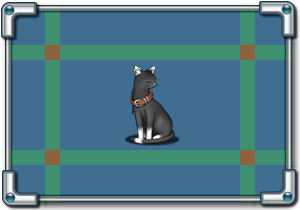
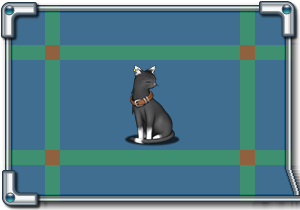
fix: balloon flip

Changed region(s): [[0.87, 0.8, 1.0, 1.0]]

diff --git a/Kikka/Scripts/Command/dialogwindow.py b/Kikka/Scripts/Command/dialogwindow.py
@@ -1,3 +1,4 @@
+# coding=utf-8
 import sys
 import logging
 
@@ -8,6 +9,7 @@ from PyQt5.QtWidgets import QWidget, QPushButton, QStackedLayout, QVBoxLayout, Q
 
 import kikka
 from kikka_balloon import Balloon
+
 
 class Dialog(QWidget):
     def __init__(self, parent: QWidget, balloon: Balloon):
@@ -22,6 +24,7 @@ class Dialog(QWidget):
         self.nid = parent.nid
         self._isChangeSizeMode = False
         self.balloon = balloon
+        self.isFlip = False
 
         self._bgSource = None
         self._bgImage = None
@@ -31,7 +34,6 @@ class Dialog(QWidget):
         self._bgClipW = None
         self._bgClipH = None
 
-        self.setBackgroundImage()
         style = '''
         QPushButton{
             border-style: solid;
@@ -157,16 +159,22 @@ class Dialog(QWidget):
                                               self.size().height()])
         pass
 
+        flip = False
         sw, sh = kikka.helper.getScreenResolution()
         if x + self.width() > sw or x < 0:
+            flip = True
             x = int(p_pos.x()*2 + p_size.width() - x - self.width())
-            if x + self.width() > sw: x = p_pos.x() - self.width()
-            if x < 0: x = p_pos.x() + p_size.width()
+            if x + self.width() > sw:
+                x = p_pos.x() - self.width()
+            if x < 0:
+                x = p_pos.x() + p_size.width()
+        if self.isFlip != flip:
+            self.isFlip = flip
+            if self.balloon is not None:
+                self._bgPixmap, self._bgMask = self.balloon.getBalloonImage(self.size(), self.isFlip)
+                self.repaint()
 
         super().move(x, y)
-        if self.balloon is not None:
-            self._bgPixmap, self._bgMask = self.balloon.getBalloonImage(self.size())
-        # self.getBackgroundImage()
         pass
 
     def show(self):
@@ -181,102 +189,12 @@ class Dialog(QWidget):
 
     def resizeEvent(self, a0: QtGui.QResizeEvent):
         if self.balloon is not None:
-            self._bgPixmap, self._bgMask = self.balloon.getBalloonImage(self.size())
-        # self.getBackgroundImage()
+            self._bgPixmap, self._bgMask = self.balloon.getBalloonImage(self.size(), self.isFlip)
 
     def paintEvent(self, event):
         painter = QPainter(self)
         painter.drawPixmap(self.rect(), self._bgPixmap)
         super().paintEvent(event)
-
-    def setBackgroundImage(self, image=None, clipW=None, clipH=None):
-        # self._backgroundSource = QImage(r"C:\\d2.png")
-        # self._backgroundClipW = [60, 3, 60]
-        # self._backgroundClipH = [60, 3, 60]
-
-        self._bgSource = QImage(r"C:\\d4.png")
-        self._bgClipW = [45, 15, 180, 15, 45]
-        self._bgClipH = [45, 15, 90, 15, 45]
-
-        srect = []
-        sw = self._bgClipW
-        sh = self._bgClipH
-        for y in range(len(self._bgClipH)):
-            sr = []
-            for x in range(len(self._bgClipW)):
-                pt = QPoint(0, 0)
-                if x > 0: pt.setX(sr[x-1].x() + sw[x-1])
-                if y > 0: pt.setY(srect[y-1][0].y() + sh[y-1])
-                sz = QSize(sw[x], sh[y])
-                sr.append(QRect(pt, sz))
-                pass
-            srect.append(sr)
-        pass  # exit for
-
-        self._bgRect = srect
-        self.setMinimumSize(self._bgSource.size())
-
-    def getBackgroundImage(self):
-        # logging.info("getBackgroundImage: (%d, %d)" % (sz.width(), sz.height()))
-
-        drect = []
-        if len(self._bgClipW) == 3:
-            dw = [self._bgClipW[0],
-                  self.size().width() - self._bgClipW[0] - self._bgClipW[2],
-                  self._bgClipW[2]]
-        elif len(self._bgClipW) == 5:
-            sw = self.size().width() - self._bgClipW[0] - self._bgClipW[2] - self._bgClipW[4]
-            dw = [self._bgClipW[0],
-                  sw//2,
-                  self._bgClipW[2],
-                  sw - sw//2,
-                  self._bgClipW[4]]
-        else:
-            sw = self.size().width() // 3
-            dw = [sw, self.size().width() - sw*2, sw]
-
-        if len(self._bgClipH) == 3:
-            dh = [self._bgClipH[0],
-                  self.size().height() - self._bgClipH[0] - self._bgClipH[2],
-                  self._bgClipH[2]]
-        elif len(self._bgClipH) == 5:
-            sh = self.size().height() - self._bgClipH[0] - self._bgClipH[2] - self._bgClipH[4]
-            dh = [self._bgClipH[0],
-                  sh//2,
-                  self._bgClipH[2],
-                  sh - sh//2,
-                  self._bgClipH[4]]
-        else:
-            sh = self.size().height() // 3
-            dh = [sh, self.size().height() - sh*2, sh]
-
-        for y in range(len(self._bgClipH)):
-            dr = []
-            for x in range(len(self._bgClipW)):
-                pt = QPoint(0, 0)
-                if x > 0: pt.setX(dr[x-1].x() + dw[x-1])
-                if y > 0: pt.setY(drect[y-1][0].y() + dh[y-1])
-                sz = QSize(dw[x], dh[y])
-                dr.append(QRect(pt, sz))
-                pass
-            drect.append(dr)
-        pass  # exit for
-
-        self._bgImage = QImage(self.size(), QImage.Format_ARGB32)
-        pixmap = QPixmap().fromImage(self._bgSource, Qt.AutoColor)
-        p = QPainter(self._bgImage)
-        p.setCompositionMode(QPainter.CompositionMode_Source)
-
-        # if self._isChangeSizeMode is True:
-        #     p.fillRect(self.rect(), Qt.black)
-        for y in range(len(self._bgClipH)):
-            for x in range(len(self._bgClipW)):
-                p.drawPixmap(drect[y][x], pixmap, self._bgRect[y][x])
-        p.end()
-
-        self._bgPixmap = QPixmap().fromImage(self._bgImage, Qt.AutoColor)
-        self._bgMask = self._bgPixmap.mask()
-        pass
 
     def setBalloon(self, balloon):
         self.balloon = balloon

diff --git a/Kikka/Scripts/kikka_balloon.py b/Kikka/Scripts/kikka_balloon.py
@@ -332,3 +332,4 @@ class Balloon:
         self._bgMask = self._bgPixmap.mask()
         return self._bgPixmap, self._bgMask
         pass
+
